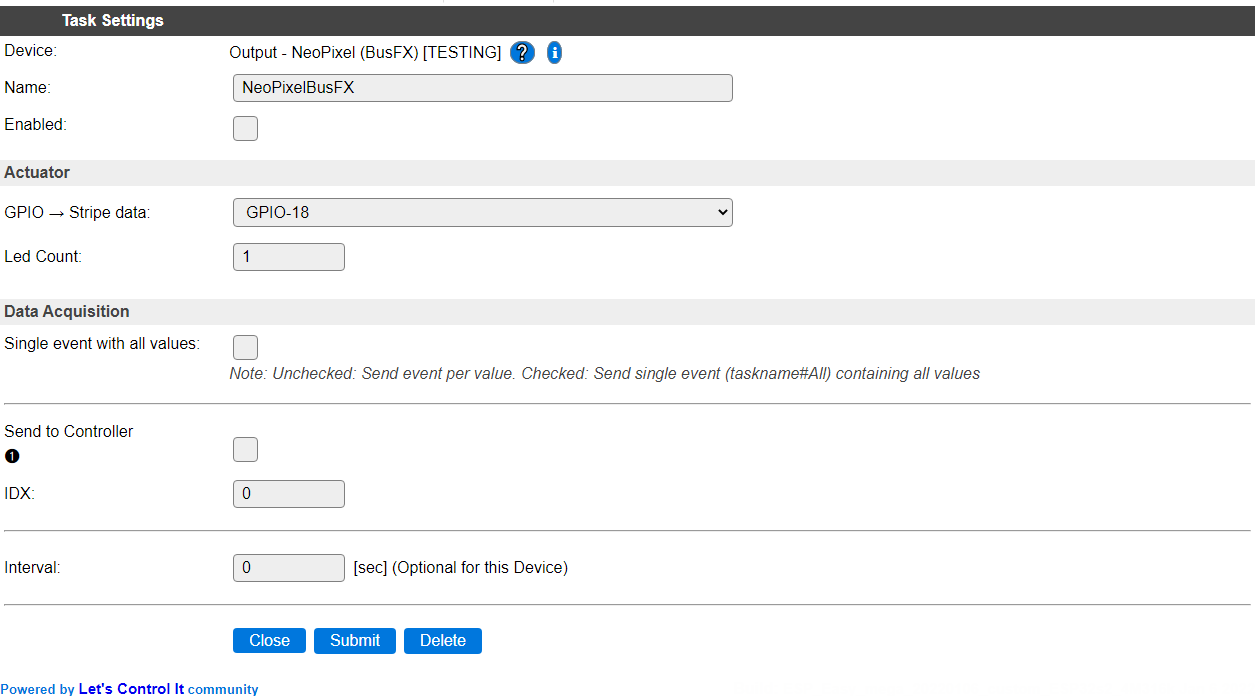
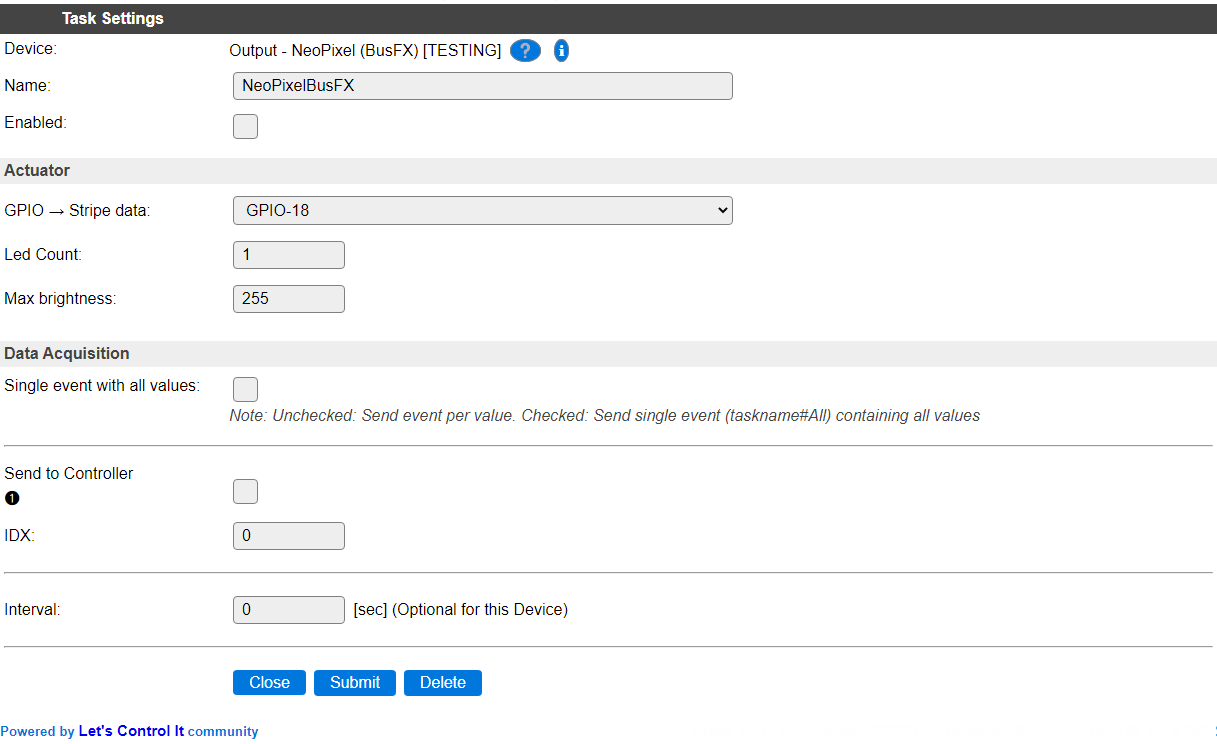
[P128] Update documentation

diff --git a/docs/source/Plugin/P128.rst b/docs/source/Plugin/P128.rst
@@ -55,6 +55,8 @@ Due to the design of the used library and the methods used, on ESP8266 only GPIO
 
 * **Led Count**: Set up the number of leds that are available on the stripe. (Current maximum is 300).
 
+* **Max brightness**: The maximum brightness allowed for the stripe. Range: 1..255. This is also the initial brightness set during initialization. Can *not* be overridden by the ``dim`` subcommand, and also the maximum value for the ``rainbow`` subcommand.
+
 Data Aquisition
 ^^^^^^^^^^^^^^^
 
@@ -83,6 +85,9 @@ Change log
 
 .. versionadded:: 2.0
   ...
+
+  |added|
+  2022-07-02: Max brightness setting.
 
   |added|
   Initial release version.
